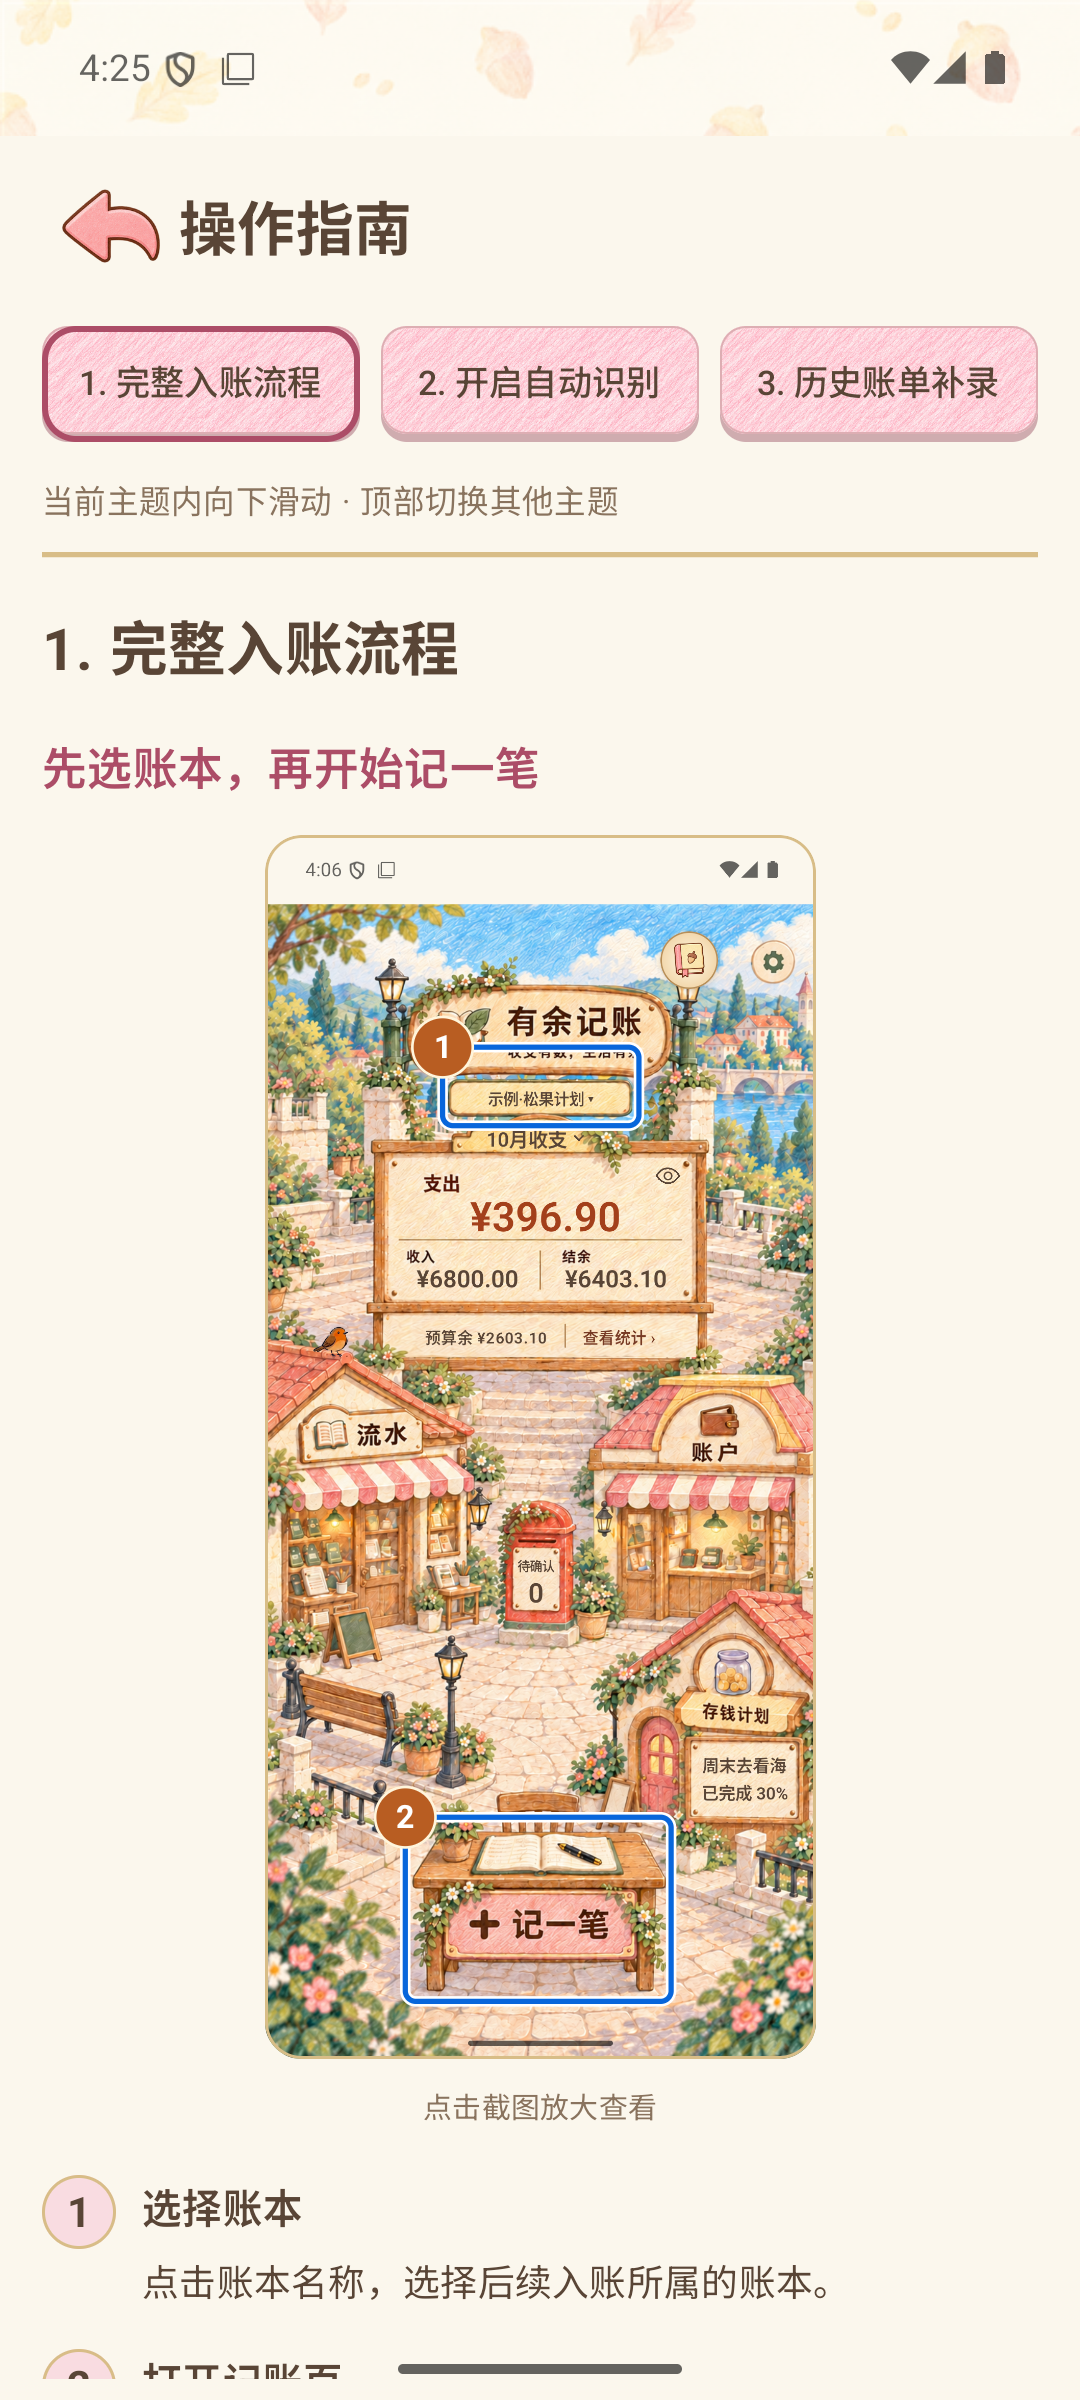
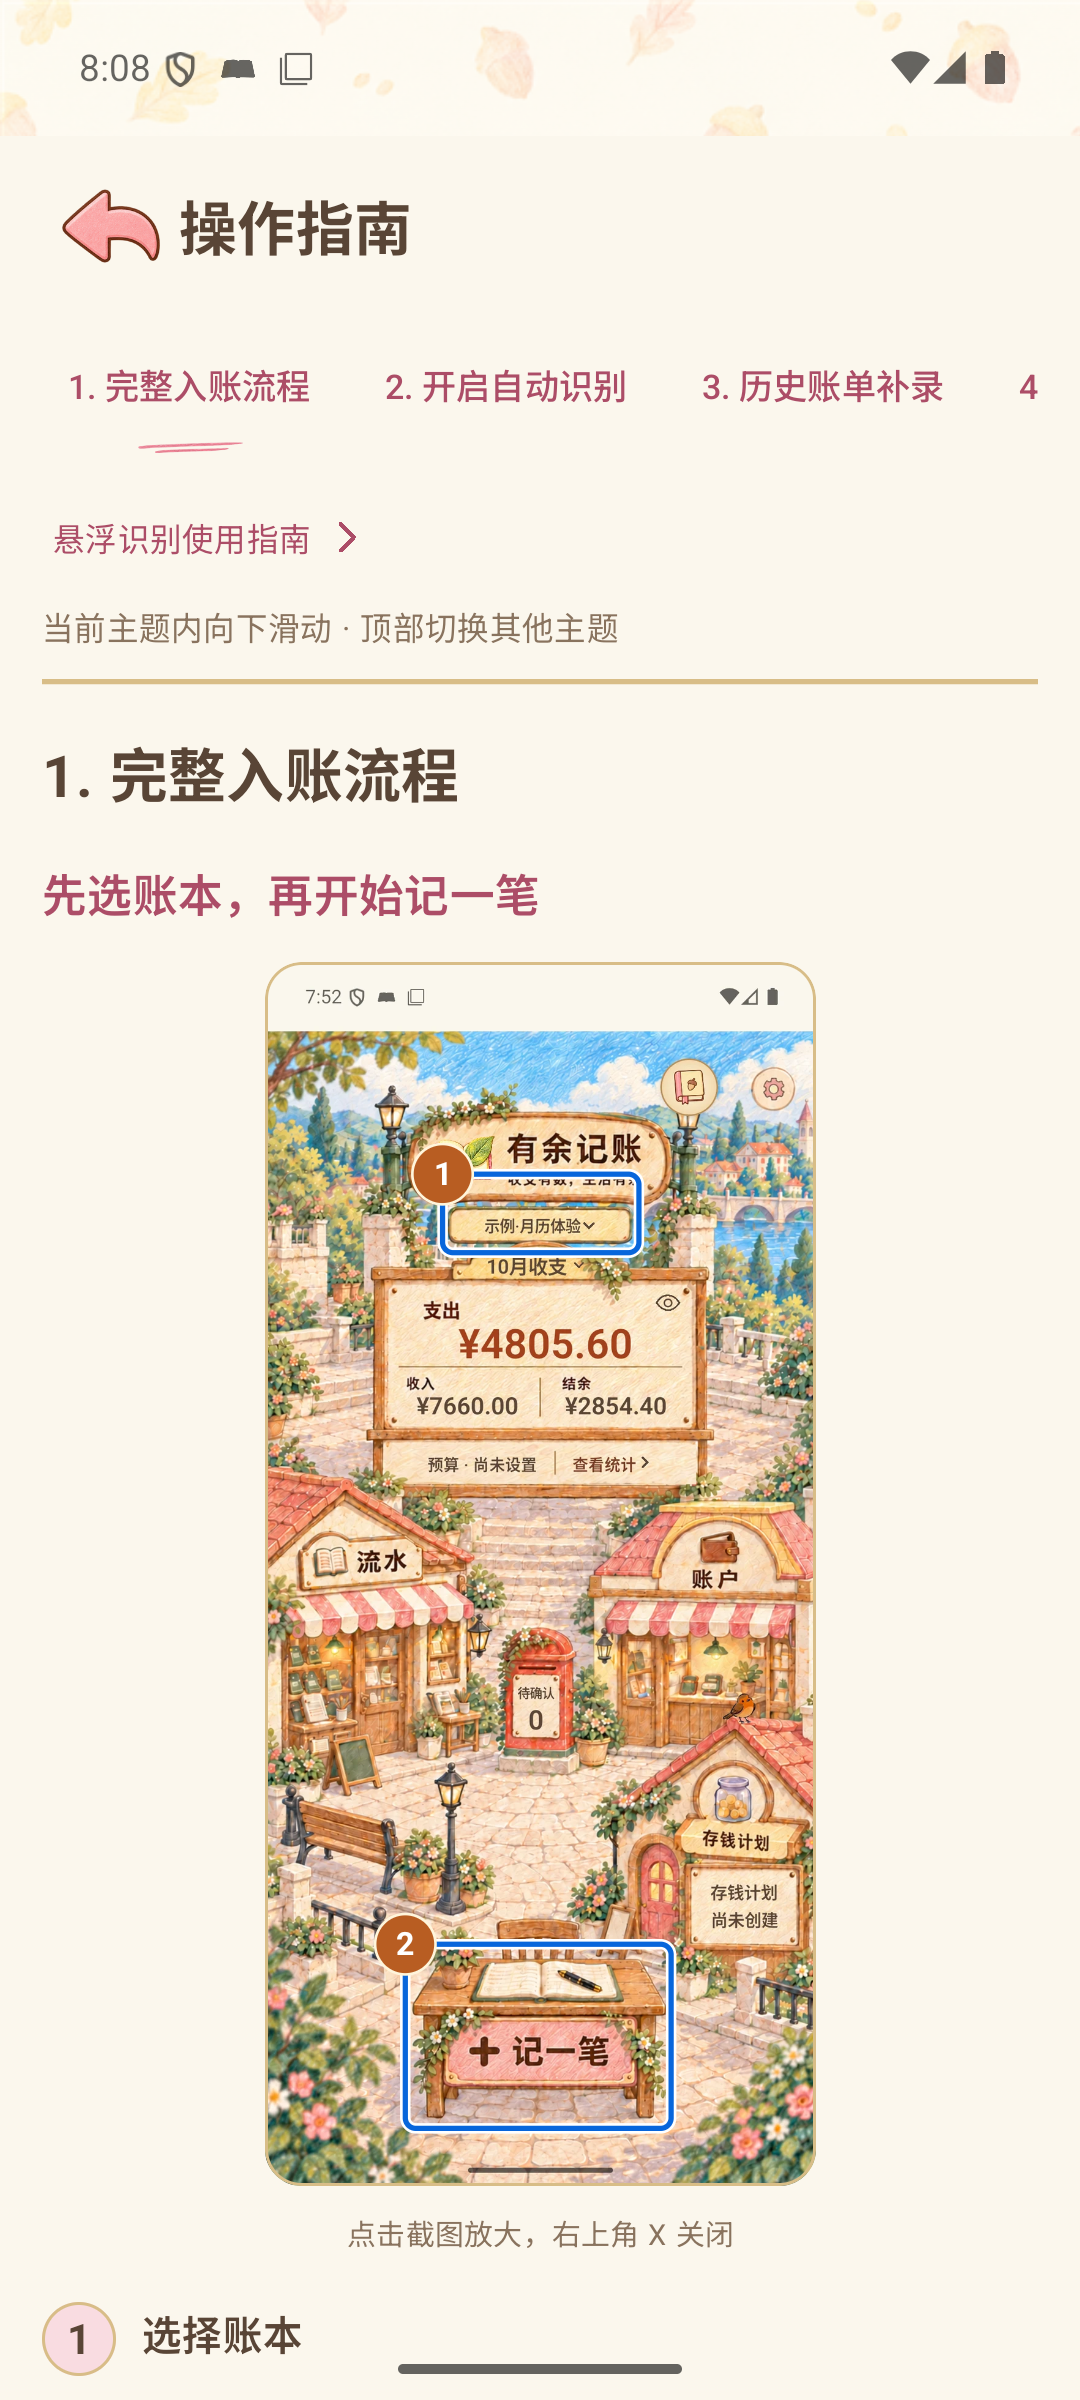
Release v0.2.76: lighter actions and refreshed guides

diff --git a/README.md b/README.md
@@ -7,7 +7,7 @@
   <a href="https://github.com/lyq-05/youyu-ledger/commits/main"><img alt="最后提交" src="https://img.shields.io/github/last-commit/lyq-05/youyu-ledger/main?label=%E6%9C%80%E5%90%8E%E6%8F%90%E4%BA%A4"></a>
   <img alt="平台 Android" src="https://img.shields.io/badge/%E5%B9%B3%E5%8F%B0-Android-3DDC84">
   <img alt="Android 8.0 及以上" src="https://img.shields.io/badge/Android-8.0%2B-3DDC84">
-  <a href="https://github.com/lyq-05/youyu-ledger/releases/download/v0.2.75/youyu-v0.2.75.apk"><img alt="安装包 71.6 MiB" src="https://img.shields.io/badge/%E5%AE%89%E8%A3%85%E5%8C%85-71.6%20MiB-orange"></a>
+  <a href="https://github.com/lyq-05/youyu-ledger/releases/download/v0.2.76/youyu-v0.2.76.apk"><img alt="安装包 72.3 MiB" src="https://img.shields.io/badge/%E5%AE%89%E8%A3%85%E5%8C%85-72.3%20MiB-orange"></a>
   <img alt="开发体验版" src="https://img.shields.io/badge/%E7%8A%B6%E6%80%81-%E5%BC%80%E5%8F%91%E4%BD%93%E9%AA%8C%E7%89%88-d6a34a">
   <img alt="不联网" src="https://img.shields.io/badge/%E7%BD%91%E7%BB%9C-%E4%B8%8D%E8%81%94%E7%BD%91-lightgrey">
 </p>
@@ -19,7 +19,7 @@
 
 Android 本地记账应用：手动入账、通知识别、图片补记与主动悬浮识别，共用“先核对、再入账”的流程。本仓库提供安装包与说明，暂不公开源码。
 
-> 当前版本 **v0.2.75 · 抖音悬浮识别使用说明**：新增商品与团购操作步骤，说明实付和日期位置，建议使用系统默认字体提高 OCR 稳定性。详见 [本次发布说明](docs/RELEASE_v0.2.75.md) 与 [版本历史](CHANGELOG.md)。
+> 当前版本 **v0.2.76 · 按钮减重与图文指南更新**：精简厚重按钮，增加图片 X 关闭入口，更新操作截图及各平台识别示例。详见 [本次发布说明](docs/RELEASE_v0.2.76.md) 与 [版本历史](CHANGELOG.md)。
 
 ---
 
@@ -27,7 +27,7 @@ Android 本地记账应用：手动入账、通知识别、图片补记与主动
 
 | 平台 | 安装包 | 大小 | 说明 |
 | --- | --- | --- | --- |
-| Android 8.0+ | **[⬇ youyu-v0.2.75.apk](https://github.com/lyq-05/youyu-ledger/releases/download/v0.2.75/youyu-v0.2.75.apk)** | 71.6 MiB | 点击直接下载，无需 root |
+| Android 8.0+ | **[⬇ youyu-v0.2.76.apk](https://github.com/lyq-05/youyu-ledger/releases/download/v0.2.76/youyu-v0.2.76.apk)** | 72.3 MiB | 点击直接下载，无需 root |
 
 [查看 Releases 与历史附件](https://github.com/lyq-05/youyu-ledger/releases)。旧版说明尽量保留，没有可用附件的版本不提供下载链接。
 
@@ -94,6 +94,7 @@ Android 本地记账应用：手动入账、通知识别、图片补记与主动
 
 | 版本 | 主题 |
 | --- | --- |
+| [v0.2.76](docs/RELEASE_v0.2.76.md) | 按钮减重与图文指南更新 |
 | [v0.2.75](docs/RELEASE_v0.2.75.md) | 抖音悬浮识别使用说明 |
 | [v0.2.74](docs/RELEASE_v0.2.74.md) | 抖音团购多行商品备注修复 |
 | [v0.2.73](docs/RELEASE_v0.2.73.md) | 悬浮识别分平台使用指南 |

diff --git a/docs/RELEASE_v0.2.76.md b/docs/RELEASE_v0.2.76.md
@@ -1,0 +1,28 @@
+# 有余记账 v0.2.76
+
+> 按钮减重与图文指南更新
+
+**开发体验版** · 2026-10-14 · Android 8.0+ · 上一版 v0.2.75。
+
+## 下载与升级
+
+[下载 youyu-v0.2.76.apk](https://github.com/lyq-05/youyu-ledger/releases/download/v0.2.76/youyu-v0.2.76.apk)（72.3 MiB）。同签名体验版可覆盖安装，建议升级前在设置中导出完整备份；签名冲突时不要直接卸载。
+
+## 本次更新
+
+- 减少记账面板之外的厚重粉色底材按钮，月份、预算、备份、账本选择、筛选和账单操作改用文字、图标或轻边框；保留删除确认及明确的危险操作颜色。
+- 记账数字面板与悬浮核对面板保留原有操作样式。
+- 指南图片放大后提供固定在右上角的 X 关闭图标。
+- 更新操作指南的 27 张截图与 32 个图文页面，补充流水筛选、账单详情及预算说明，对齐当前按钮和入口位置。
+- 更新京东、京东外卖、抖音商品与团购示例，加入微信、支付宝账单图片。个人信息和交易编号逐块遮挡，保留操作所需的页面结构。
+- 抖音指南提示切换系统默认字体有助于 OCR 稳定识别；微信、支付宝示例无需展开，也不强求页面没有的商品备注。
+
+## 验证与限制
+
+- Release 构建、85 项核心测试通过；安装包身份、版本及与上一版签名一致性已核验，测试工具关闭。
+- 独立指南应用中已验证图片 X 关闭、主题内连续滚动及切换主题回到顶部；指南截图使用虚构账本数据。
+- 本版主要更新界面和说明，不代表解决第三方应用所有无障碍文字缺失问题。OCR 是补充方式，金额、日期与备注仍需保存前核对。
+
+## 相关链接
+
+[项目首页](https://github.com/lyq-05/youyu-ledger) · [版本历史](https://github.com/lyq-05/youyu-ledger/blob/main/CHANGELOG.md) · [上一版本](https://github.com/lyq-05/youyu-ledger/releases/tag/v0.2.75)

diff --git a/CHANGELOG.md b/CHANGELOG.md
@@ -2,6 +2,16 @@
 
 按现存开发记录整理。历史预览构建并非每次都变更版本号；无法核实的版本号与日期不补造。
 
+## v0.2.76 — 按钮减重与图文指南更新
+
+- 精简记账面板之外的厚重按钮，保留明确的选择、关闭及危险操作提示。
+- 更新 27 张指南截图和 32 个图文页面，图片放大增加右上角 X 关闭。
+- 补充京东、京东外卖、抖音商品/团购及微信、支付宝识别示例。
+
+[详细说明](docs/RELEASE_v0.2.76.md)
+
+---
+
 ## v0.2.75 — 抖音悬浮识别使用说明
 
 - 新增商品与团购场景步骤，适用于抖音及独立商城。
